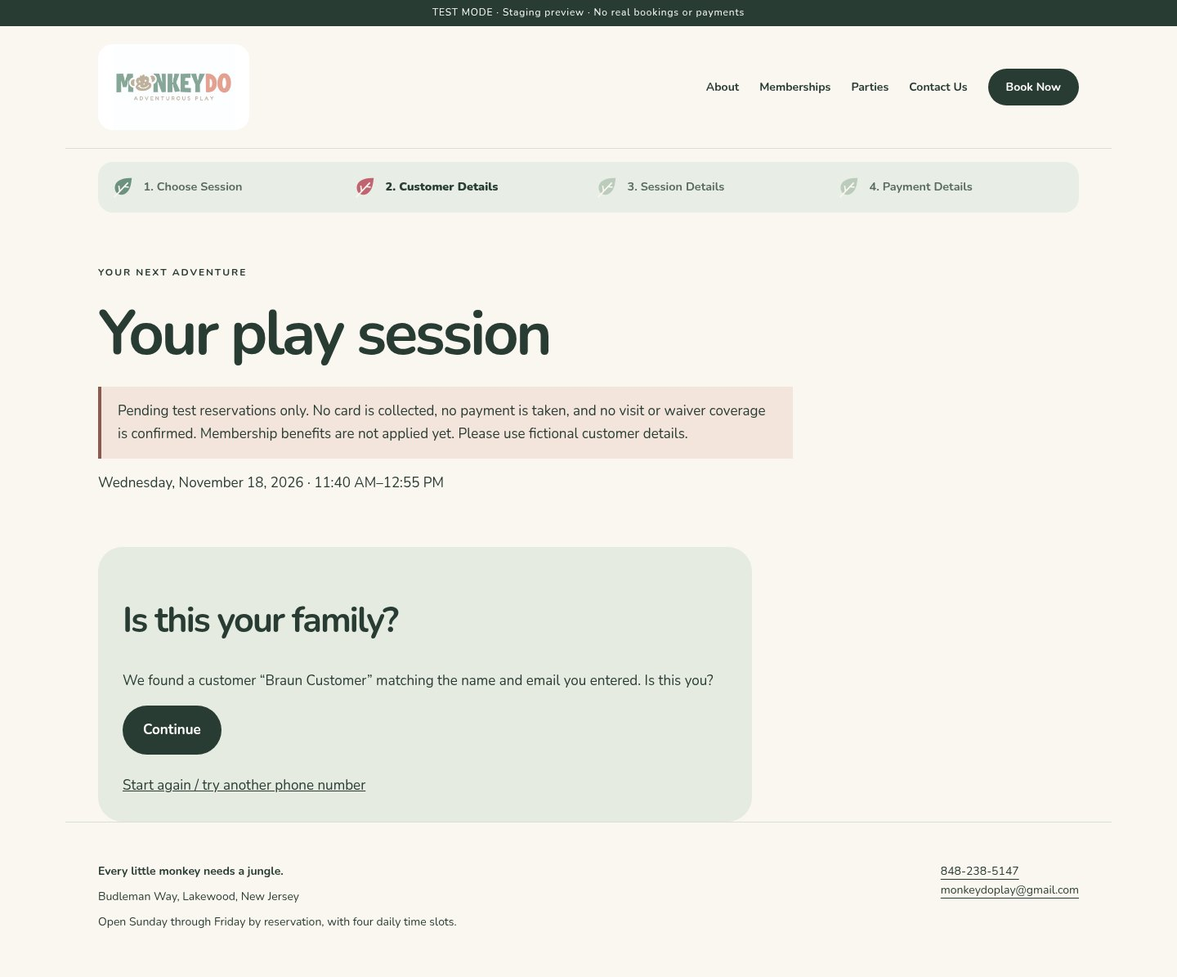
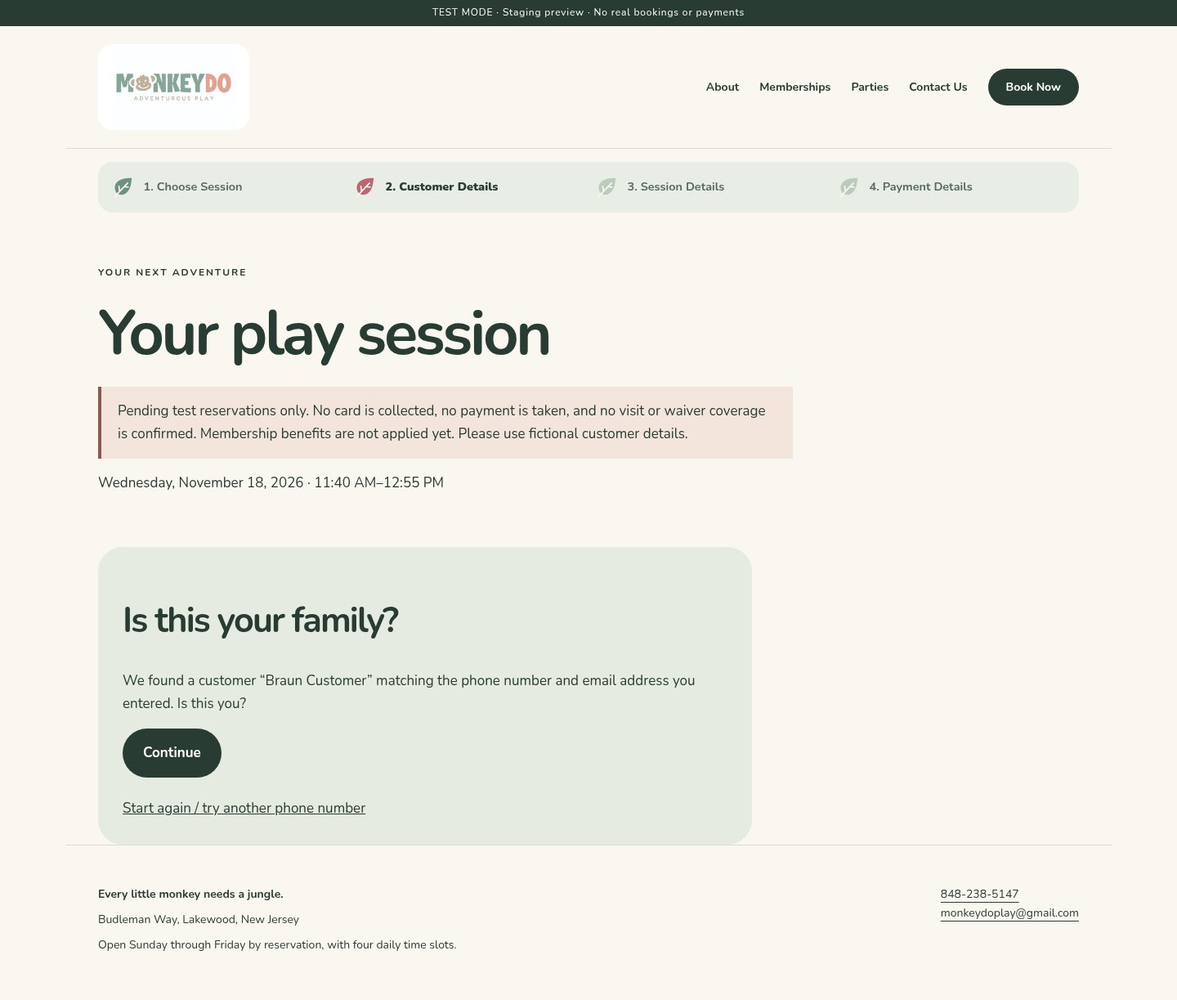
Reuse entered phone for email recovery and lower the booking estimate

diff --git a/templates/core/customer_booking.html b/templates/core/customer_booking.html
@@ -6,13 +6,13 @@
 </section>
 {% if form %}<div class="customer-booking-layout{% if flow.stage == 'details' %} with-play-info{% endif %}"><section class="panel customer-booking-form">
 {% if flow.stage == 'name' %}<p>Looks like you've been to Monkey Do in the past. We found a customer profile with the phone number you entered — {{ flow.phone }}. For verification, please enter your last name.</p>{% endif %}
-{% if flow.stage == 'name_confirm' or flow.stage == 'email_confirm' %}<h2>Is this your family?</h2><p>We found a customer “{{ flow.candidate_name }}” {% if flow.stage == 'email_confirm' %}matching the name and email you entered{% else %}for phone {{ flow.phone }}{% endif %}. Is this you?</p>{% endif %}
+{% if flow.stage == 'name_confirm' or flow.stage == 'email_confirm' %}<h2>Is this your family?</h2><p>We found a customer “{{ flow.candidate_name }}” {% if flow.stage == 'email_confirm' %}{% if flow.recovery_match_kind == 'phone_email' %}matching the phone number and email address you entered{% else %}matching the details you already entered{% endif %}{% else %}for phone {{ flow.phone }}{% endif %}. Is this you?</p>{% endif %}
 {% if flow.stage == 'retry_phone' %}<h2>Let's try another number</h2><p>No customer was found with {{ flow.phone }}. Did you use a different phone number for a previous booking?</p>{% endif %}
 {% if flow.stage == 'contact' or flow.stage == 'retry_phone' %}<p role="status">You can continue below as a new customer, <a href="{% url 'customer_booking' %}?restart=1">go back</a> to try another number, <a href="{% url 'customer_email_recovery' %}">enter an email address</a> to find your customer profile, or call/text us at 848-238-5147 for assistance.</p>{% endif %}
 {% if flow.new_contact_ready and flow.stage == 'details' %}<p role="status">Success! Your details are ready. Please proceed with your booking.</p>{% endif %}
-{% if flow.stage == 'email_lookup' %}{% if flow.recovery_notice %}<p role="status">{{ flow.recovery_notice }}</p>{% endif %}<h2>Find your customer details</h2><p>Enter the email address and last name associated with your customer profile.</p>{% endif %}
+{% if flow.stage == 'email_lookup' %}<p role="status">You can try finding your customer profile by entering your email address.</p><h2>Find your customer details</h2>{% endif %}
 {% if flow.stage == 'previous' %}<p>Looks like you've been to Monkey Do in the past. We found a customer record with your number, along with an updated number of {{ flow.current_phone }}. Please confirm if this is your phone number.</p>{% endif %}
-{% if customer %}{% if flow.stage != 'review' %}{% if flow.verification_mode == 'previous' %}<p>Please go ahead with your booking.</p>{% elif flow.verification_mode == 'name_confirm' %}<p>Your name confirmation was saved. Please go ahead with your booking.</p>{% else %}<p>That name matches our records. Let’s continue with your booking.</p>{% endif %}{% endif %}<p>Family {{ customer.last_name }} · {{ customer.phone }}{% if customer.email %} · {{ customer.email }}{% endif %}</p>{% elif flow.contact %}<p>Family {{ flow.contact.last_name }} · {{ flow.phone }} · {{ flow.contact.email }}</p>{% endif %}
+{% if customer %}{% if flow.stage != 'review' %}{% if flow.verification_mode == 'previous' %}<p>Please go ahead with your booking.</p>{% elif flow.verification_mode == 'name_confirm' %}<p>Your name confirmation was saved. Please go ahead with your booking.</p>{% elif flow.verification_mode == 'email_confirm' %}<p>Your details match our records. Let’s continue with your booking.</p>{% else %}<p>That name matches our records. Let’s continue with your booking.</p>{% endif %}{% endif %}<p>Family {{ customer.last_name }} · {{ customer.phone }}{% if customer.email %} · {{ customer.email }}{% endif %}</p>{% elif flow.contact %}<p>Family {{ flow.contact.last_name }} · {{ flow.phone }} · {{ flow.contact.email }}</p>{% endif %}
 {% if flow.stage == 'email' %}<h2>Add your email address</h2><p>Your customer record doesn’t have an email address yet. Please enter one to continue.</p>{% endif %}
 {% if flow.contact_email %}<p>Email for this booking: {{ flow.contact_email }}</p>{% endif %}
 {% if flow.stage == 'contact' %}<h2>Your details</h2><p>Phone: {{ flow.phone }}</p>{% endif %}

diff --git a/static/core/site.css b/static/core/site.css
@@ -904,7 +904,7 @@ input[type="checkbox"],input[type="radio"] { width:auto; padding:0; margin-right
 .with-play-info .customer-booking-form { max-width:none; min-width:0 }
 .public-details-layout { display:grid; grid-template-columns:minmax(0,1fr) minmax(220px,.85fr); gap:24px; align-items:start }
 .public-details-layout>.button { grid-column:1 / -1; justify-self:start }
-.live-booking-estimate { padding:18px; border-radius:20px; background:#faf7ef; position:sticky; top:20px; min-width:0 }
+.live-booking-estimate { padding:18px; border-radius:20px; background:#faf7ef; align-self:center; position:static; min-width:0 }
 .live-booking-estimate h3 { margin:0 0 14px; font-size:23px }
 .live-booking-estimate .quote-items div { gap:12px }
 .live-booking-estimate dd { white-space:nowrap }

diff --git a/core/public_booking_views.py b/core/public_booking_views.py
@@ -96,7 +96,15 @@ class RetryPhoneForm(forms.Form):
 
 class EmailRecoveryForm(forms.Form):
     email = forms.EmailField(label="Email address")
-    last_name = forms.CharField(max_length=120, label="Last Name")
+
+
+def recovery_match_kind(flow, customer):
+    """Match current email plus earlier inputs; never request a surname twice."""
+    phone_customer = lookup_phone(flow["phone"])
+    if phone_customer is not None:
+        return "phone_email" if phone_customer.pk == customer.pk else None
+    entered_name = flow.get("entered_name", "")
+    return "name_email" if entered_name and similar_name(entered_name, customer.last_name) else None
 
 
 class ContactForm(forms.Form):
@@ -304,6 +312,11 @@ def wizard(request):
         form = form_type(request.POST if request.method == "POST" else None, **args)
         if stage == "review" and request.method == "GET":
             form = ConfirmForm(initial={"flow_key": flow["key"]})
+        if request.method == "POST" and stage == "contact":
+            form.is_valid()
+            if form.cleaned_data.get("last_name"):
+                flow["entered_name"] = form.cleaned_data["last_name"]
+                save(request, flow)
         if request.method == "POST" and form.is_valid():
             limit(request, stage, 60)
             data = form.cleaned_data
@@ -355,7 +368,8 @@ def wizard(request):
                         "Please wait before trying again, or call/text 848-238-5147."
                     )
                 customer = Customer.objects.filter(email__iexact=address).first()
-                if customer is None or not similar_name(data["last_name"], customer.last_name):
+                matched_by = recovery_match_kind(flow, customer) if customer is not None else None
+                if not matched_by:
                     form.add_error(
                         None,
                         "We couldn't match those details. Please try again or call/text 848-238-5147 for help.",
@@ -363,7 +377,7 @@ def wizard(request):
                     return display(request, flow, form=form)
                 flow["candidate"] = {"id": customer.pk, "revision": customer.revision}
                 flow["candidate_name"] = customer.last_name
-                flow["entered_name"] = data["last_name"]
+                flow["recovery_match_kind"] = matched_by
                 flow["recovery_email"] = address
                 flow["stage"] = "email_confirm"
             elif stage in {"name", "name_confirm", "previous", "email_confirm"}:
@@ -372,6 +386,7 @@ def wizard(request):
                 if customer.revision != candidate["revision"]:
                     raise ValidationError("Customer details changed. Please start again.")
                 if stage == "name":
+                    flow["entered_name"] = data["last_name"]
                     exact = canonical_name(data["last_name"]) == canonical_name(customer.last_name)
                     if not exact and similar_name(data["last_name"], customer.last_name):
                         flow["entered_name"] = data["last_name"]
@@ -380,25 +395,21 @@ def wizard(request):
                         save(request, flow)
                         return redirect("customer_booking")
                     matched = exact
-                elif stage in {"name_confirm", "email_confirm"}:
+                elif stage == "email_confirm":
+                    matched = customer.email.casefold() == flow.get(
+                        "recovery_email", ""
+                    ).casefold() and bool(recovery_match_kind(flow, customer))
+                elif stage == "name_confirm":
                     matched = similar_name(flow.get("entered_name", ""), customer.last_name)
-                    if stage == "email_confirm":
-                        matched = (
-                            matched
-                            and customer.email.casefold()
-                            == flow.get("recovery_email", "").casefold()
-                        )
                 else:
                     matched = data["confirm_phone"] == "yes"
                 if not matched and stage in {"name", "name_confirm"}:
                     flow["stage"] = "email_lookup"
                     flow.pop("candidate_name", None)
                     save(request, flow)
-                    recovery = EmailRecoveryForm(
-                        initial={"last_name": data.get("last_name", flow.get("entered_name", ""))}
-                    )
+                    recovery = EmailRecoveryForm()
                     flow["recovery_notice"] = (
-                        "We couldn't match that name to the entered phone number. You can try your email address and last name below."
+                        "You can try finding your customer profile by entering your email address."
                     )
                     save(request, flow)
                     return display(request, flow, form=recovery)

diff --git a/tests/test_owner_feedback_batch_three.py b/tests/test_owner_feedback_batch_three.py
@@ -253,15 +253,14 @@ class PublicThirdBatchTests(TestCase):
         self.begin(c.phone, "yes")
         self.client.post("/book/details/", {"last_name": "Unrelated"})
         self.assertEqual(self.client.session["customer_test_booking"]["stage"], "email_lookup")
-        response = self.client.post("/book/details/", {"last_name": "Wrong", "email": c.email})
+        response = self.client.post("/book/details/", {"email": "wrong@example.invalid"})
         self.assertNotContains(response, c.last_name)
-        response = self.client.post(
-            "/book/details/", {"last_name": "Brawn", "email": c.email.upper()}
-        )
+        response = self.client.post("/book/details/", {"email": c.email.upper()})
         self.assertEqual(response.status_code, 302)
         self.assertContains(self.client.get("/book/details/"), c.last_name)
         self.client.post("/book/details/", {})
         self.assertEqual(self.client.session["customer_test_booking"]["stage"], "details")
+        self.assertContains(self.client.get("/book/details/"), "Your details match our records")
         c.refresh_from_db()
         self.assertEqual(c.phone, "2025550100")
         self.assertFalse(Booking.objects.exists())
@@ -270,13 +269,54 @@ class PublicThirdBatchTests(TestCase):
         c = Customer.objects.create(
             last_name="Known", phone="2025550100", email="known@example.invalid"
         )
-        self.begin("5145550199", "yes")
-        self.client.post("/book/recover/")
+        self.begin("5145550199", "no")
+        # A name already entered on the contact form can be reused; it is never asked again.
         self.client.post("/book/details/", {"last_name": "Kno", "email": c.email})
+        self.client.post("/book/recover/")
+        self.client.post("/book/details/", {"email": c.email})
         self.client.post("/book/details/", {})
         self.assertEqual(self.client.session["customer_test_booking"]["stage"], "details")
         c.refresh_from_db()
         self.assertEqual(c.phone, "2025550100")
+
+    def test_email_recovery_uses_phone_without_repeating_name(self):
+        c = Customer.objects.create(
+            last_name="Known", phone="2025550100", email="known@example.invalid"
+        )
+        self.begin(c.phone, "yes")
+        response = self.client.post("/book/details/", {"last_name": "Different"})
+        self.assertNotContains(response, 'name="last_name"')
+        self.assertContains(
+            response, "You can try finding your customer profile by entering your email address."
+        )
+        self.client.post("/book/details/", {"email": c.email})
+        self.assertContains(self.client.get("/book/details/"), c.last_name)
+        self.assertNotIn("proof", self.client.session["customer_test_booking"])
+
+    def test_email_for_another_profile_cannot_override_a_matched_phone(self):
+        current = Customer.objects.create(
+            last_name="Current", phone="2025550100", email="current@example.invalid"
+        )
+        other = Customer.objects.create(
+            last_name="Other", phone="2025550101", email="other@example.invalid"
+        )
+        self.begin(current.phone, "yes")
+        self.client.post("/book/details/", {"last_name": other.last_name})
+        response = self.client.post("/book/details/", {"email": other.email})
+        self.assertNotContains(response, "Is this your family?")
+        self.assertNotIn("candidate_name", self.client.session["customer_test_booking"])
+        self.assertEqual(self.client.session["customer_test_booking"]["stage"], "email_lookup")
+
+    def test_email_alone_with_unknown_phone_does_not_reveal_profile(self):
+        c = Customer.objects.create(
+            last_name="Known", phone="2025550100", email="known@example.invalid"
+        )
+        self.begin("5145550199", "yes")
+        self.client.get("/book/recover/")
+        response = self.client.post("/book/details/", {"email": c.email, "last_name": c.last_name})
+        self.assertNotContains(response, "Is this your family?")
+        self.assertNotIn("candidate_name", self.client.session["customer_test_booking"])
+        self.assertEqual(self.client.session["customer_test_booking"]["stage"], "email_lookup")
 
     def test_email_from_history_cannot_identify_customer(self):
         c = Customer.objects.create(

diff --git a/tests/test_public_booking.py b/tests/test_public_booking.py
@@ -94,7 +94,9 @@ class PublicBookingTests(TestCase):
         self.assertNotContains(response, customer.email)
         self.assertNotContains(response, customer.last_name)
         response = self.client.post("/book/details/", {"last_name": "Wrong"})
-        self.assertContains(response, "try your email address and last name")
+        self.assertContains(
+            response, "You can try finding your customer profile by entering your email address."
+        )
         self.assertEqual(Booking.objects.count(), 0)
         self.assertEqual(self.client.session["customer_test_booking"]["stage"], "email_lookup")
 

diff --git a/docs/MONKEYDO_REQUIREMENTS.md b/docs/MONKEYDO_REQUIREMENTS.md
@@ -106,7 +106,7 @@ Collect Last Name, phone, email, date/session, baby/child/adult quantities, calc
 
 Validate in browser and server: required fields/consent, nonnegative integer counts, nonzero attendance, adult rule where applicable, card setup unless owner-comped, availability/end time, capacity and permissions. Online waiver must be covered before booking completes; admin/phone bookings may confirm pending.
 
-The visible public progress indicator has four steps: Choose Session, Customer Details, Session Details, Payment Details. Expected payment-method selection stays in Session Details; the breakdown and final reviewed save action live in Payment Details, without a separate visible Review step. Show completion afterward. Add a waiver step only when the approved waiver workflow is implemented. Show an itemized calculation before confirmation. Public Session Details has a read-only live estimate labelled Total before applicable taxes, including any applicable card fee but omitting tax; final Payment Details shows the complete tax-inclusive breakdown. Stack compact Open/Supervised information cards without booking buttons outside the form on desktop and below it on phones. Save immutable price/tax/fee/policy snapshots; an authorized edit creates a new revision with before/after audit, not silent rewriting of the original. Future owner pricing/settings do not alter accepted existing bookings or cohort prices.
+The visible public progress indicator has four steps: Choose Session, Customer Details, Session Details, Payment Details. Expected payment-method selection stays in Session Details; the breakdown and final reviewed save action live in Payment Details, without a separate visible Review step. Show completion afterward. Add a waiver step only when the approved waiver workflow is implemented. Show an itemized calculation before confirmation. Public Session Details has a read-only live estimate labelled Total before applicable taxes, placed lower beside the attendee fields rather than alongside the initial play-type instructions, including any applicable card fee but omitting tax; final Payment Details shows the complete tax-inclusive breakdown. Stack compact Open/Supervised information cards without booking buttons outside the form on desktop and below it on phones. Save immutable price/tax/fee/policy snapshots; an authorized edit creates a new revision with before/after audit, not silent rewriting of the original. Future owner pricing/settings do not alter accepted existing bookings or cohort prices.
 
 ## 7. Customers and public identification
 
@@ -120,7 +120,7 @@ The visible public progress indicator has four steps: Choose Session, Customer D
 
 1. Ask whether the customer has visited before. Search current and previous phone fields. New-customer entry also silently searches after phone entry.
 2. For a new customer, silently search the supplied phone and continue new booking if unmatched. For a returning customer whose phone is unmatched, show the entered number and offer another/prior-number attempt or Continue as a new customer. If the alternative number is unmatched, continue the new-customer flow with a clear explanation and a way to start again.
-3. Permit the approved spelling differences and meaningful partial/individual-word names only against the phone-selected customer, or the exact current-email-selected customer during recovery. Show **We found a customer “[LastName]” for phone [entered number]. Is this you?** with Continue as the confirmation action; no additional checkbox. Preserve the stored spelling. Backend suggestions across Customers, Today/Bookings and booking/membership pickers rank exact/direct matches before clearly marked possible word/spelling matches, including Brawn versus Braun Customer and bnot versus bnos miriam. Test customer/customir and Zorger/Zarger/Zharger/Zorge. On a current-number match, including a supposedly new customer, say: **Looks like you've been to Monkey Do in the past. We found a customer profile with the phone number you entered — [entered number]. For verification, please enter your last name.** On success: **That name matches our records. Let’s continue with your booking.** Show this at verification/session details, without repeating it on Payment Details. Associate only after verification. On failure: **The last name you entered doesn't match the name on record for this number. We would love to get your booking done for you as soon as possible. Please call or text 848-238-5147 and we'll help you with it.** If phone/name matching fails, offer exact current-email plus tolerant surname recovery instead of associating an unverified match. Offer the same recovery when no phone matches. Reveal the family name only after the two supplied pieces match, then require confirmation. Historical-only addresses do not identify a customer; keep the saved phone unchanged. Retain call/text assistance and request throttling. This supersedes the earlier phone-only stop rule.
+3. Permit the approved spelling differences and meaningful partial/individual-word names only against the phone-selected customer, or the exact current-email-selected customer during recovery. Show **We found a customer “[LastName]” for phone [entered number]. Is this you?** with Continue as the confirmation action; no additional checkbox. Preserve the stored spelling. Backend suggestions across Customers, Today/Bookings and booking/membership pickers rank exact/direct matches before clearly marked possible word/spelling matches, including Brawn versus Braun Customer and bnot versus bnos miriam. Test customer/customir and Zorger/Zarger/Zharger/Zorge. On a current-number match, including a supposedly new customer, say: **Looks like you've been to Monkey Do in the past. We found a customer profile with the phone number you entered — [entered number]. For verification, please enter your last name.** On success: **That name matches our records. Let’s continue with your booking.** Show this at verification/session details, without repeating it on Payment Details. Associate only after verification. On failure: **The last name you entered doesn't match the name on record for this number. We would love to get your booking done for you as soon as possible. Please call or text 848-238-5147 and we'll help you with it.** If phone/name matching fails, offer an email-only entry screen and reuse the phone already supplied: the current email and phone must identify the same customer before revealing their family name and requesting confirmation. Do not ask for the surname again. If no phone record was found, an already-entered surname may instead supply the second matching detail; do not disclose a profile from email alone or accept a forged new surname on the recovery submission. Historical-only addresses do not identify a customer; keep the saved phone unchanged. Retain call/text assistance and request throttling. This supersedes the earlier phone-only stop rule.
 4. On a previous-number match, show full current phone: **Looks like you've been to Monkey Do in the past. We found a customer record with your number, along with an updated number of [current phone]. Please confirm if this is your phone number.** Yes is sufficient for this branch; do not add an unapproved second last-name check. No: **We would love to get your booking finalized as soon as possible. Please call/text 848-238-5147 for assistance with this booking.** Owner explicitly chose this full-number disclosure.
 5. Link internally to the same account and use current contact information without unnecessary repeated entry. Do not expose prior booking history, minor names or other private history in the lookup.
 6. All customers see booking success and the destination email with an Update email address option. No emailed verification code was requested for that change.

diff --git a/docs/design-review/owner-edits-batch-3/README.md b/docs/design-review/owner-edits-batch-3/README.md
@@ -39,9 +39,9 @@ remain welcome.
 | 22 | Public booking — Canadian/ten-digit phone wording | [Desktop JPG](22-phone-validation-wording-desktop.jpg) | [Phone JPG](22-phone-validation-wording-phone.jpg) |
 | 23 | Public booking — inline phone/email continuation choices | [Desktop JPG](23-new-customer-continuation-desktop.jpg) | [Phone JPG](23-new-customer-continuation-phone.jpg) |
 | 24 | Public booking — details ready, not saved early | [Desktop JPG](24-new-customer-details-ready-desktop.jpg) | [Phone JPG](24-new-customer-details-ready-phone.jpg) |
-| 25 | Public booking — email recovery | [Desktop JPG](25-email-recovery-desktop.jpg) | [Phone JPG](25-email-recovery-phone.jpg) |
+| 25 | Public booking — email entry using the earlier phone | [Desktop JPG](25-email-recovery-desktop.jpg) | [Phone JPG](25-email-recovery-phone.jpg) |
 | 26 | Public booking — matching family confirmation | [Desktop JPG](26-email-family-confirmation-desktop.jpg) | [Phone JPG](26-email-family-confirmation-phone.jpg) |
-| 27 | Public booking — live pretax estimate and play information | [Desktop JPG](27-live-estimate-and-play-info-desktop.jpg) | [Phone JPG](27-live-estimate-and-play-info-phone.jpg) |
+| 27 | Public booking — lower pretax estimate and play information | [Desktop JPG](27-live-estimate-and-play-info-desktop.jpg) | [Phone JPG](27-live-estimate-and-play-info-phone.jpg) |
 | 28 | Public booking — final tax-inclusive details | [Desktop JPG](28-final-payment-details-tax-desktop.jpg) | [Phone JPG](28-final-payment-details-tax-phone.jpg) |
 | 29 | Public booking — rose completion sentence | [Desktop JPG](29-completion-rose-message-desktop.jpg) | [Phone JPG](29-completion-rose-message-phone.jpg) |
 
@@ -68,3 +68,5 @@ customer visits remain unfinished. [Implementation and migration notes](../../OW
 Screen 16 now shows the actual new-session default: **Closed for reservation is unchecked**. Existing saved defaults retain their own open/closed setting.
 
 Screen 23 now consolidates phone retry and email recovery into the introductory paragraph, with both actions as inline links. Duplicate actions below the form were removed.
+
+Screens 24–27 were refreshed after review: the estimate sits lower beside attendee inputs, and email recovery asks only for email, reusing the phone already entered. It reveals the family after both match, without asking for the name again.

diff --git a/docs/OWNER_EDITS_BATCH_3.md b/docs/OWNER_EDITS_BATCH_3.md
@@ -36,7 +36,7 @@ previous approved release. [Desktop and phone JPG gallery](design-review/owner-e
 
 ## Verification
 
-- **397 tests passed on local PostgreSQL 16.2.** GitHub CI runs PostgreSQL 17;
+- **400 tests passed on local PostgreSQL 16.2.** GitHub CI runs PostgreSQL 17;
   record its separate results before PR readiness. This is not production or
   hosted owner acceptance.
 - New coverage includes concurrent custom-session creation versus booking,
@@ -122,3 +122,22 @@ session. Email lookup still requires email and surname, with no early customer
 creation or saved-phone change. The 27 affected PostgreSQL public-flow tests
 passed and Chromium checked both links at desktop/phone widths. Screen 23 and
 its image checksums were refreshed. Staging and PR/deployment remain unchanged.
+
+
+## Image-review follow-up — lower estimate and reuse the entered phone
+
+The owner requested moving the estimate lower and removing the repeated surname
+field from recovery. Clarification: after a phone matches but the surname fails,
+the already-entered phone plus current email are the two matching details. The
+recovery form now has just Email address, with You can try finding your customer
+profile by entering your email address. It cannot reveal a different profile
+whose email does not match the phone. Prior unmatched-phone recovery can reuse a
+surname already entered earlier; email alone and extra forged recovery-name
+fields cannot disclose a profile. Saved phone and customer creation timing remain
+unchanged. Recovery completion says Your details match our records.
+
+The estimate now starts lower beside attendee inputs through vertical alignment,
+with the mobile order unchanged. Chromium verifies its lower position and the
+one-field recovery/phone-email confirmation at 1440px and 390px; screens 24–27
+were refreshed. The affected 30 public-booking/recovery tests passed, including
+new disclosure/refusal cases. The full PostgreSQL regression suite passed: 400 tests. Staging remains unchanged and image approval still precedes PR/deploy.

diff --git a/docs/CUSTOMER_BOOKING_DEVELOPMENT.md b/docs/CUSTOMER_BOOKING_DEVELOPMENT.md
@@ -92,3 +92,23 @@ the in-progress browser flow and still requires matching email and surname befor
 family disclosure. Final customer/booking persistence, saved phone and selected
 session are unchanged. Remove the obsolete duplicate-email hint that referred to
 the removed standalone button; the approved full error wording remains.
+
+
+## Image-review clarification — lower estimate and no repeated name entry
+
+The owner clarified the failed-name case: the phone number was already found,
+so that phone plus matching current email are sufficient. Recovery now asks for
+email only, reuses the earlier phone and reveals the family only after both
+identify the same profile. A mismatching email cannot switch a phone-selected
+customer to a different record. The wording is You can try finding your customer
+profile by entering your email address. The surname is never requested again.
+For the earlier unmatched-phone branch, only a surname already supplied in the
+contact step can serve as the second detail; otherwise email alone cannot reveal
+the record. Historical-only email remains excluded, and saved phones are unchanged.
+Confirmation rechecks the same details and profile revision. After recovery the
+success message says Your details match our records, avoiding a false claim that
+the originally mismatched surname was accepted.
+
+The desktop live estimate is vertically centered lower beside the attendee
+fields instead of starting next to Play type. Its narrow-screen placement after
+the fields is unchanged. Screens 24–27 were refreshed where affected.

diff --git a/docs/DECISION_LOG.md b/docs/DECISION_LOG.md
@@ -435,3 +435,14 @@ tax only from the live estimate while preserving final tax-inclusive details.
 Generate desktop/phone screenshots in GitHub for owner review, then corrections,
 PR and one-command deployment preparation. This does not authorize deploying
 before image review or implementing the separate next-phase proposal.
+
+
+## 2026-11-17 — Email recovery reuses the matched phone; estimate lower
+
+Owner clarified that when phone lookup finds a record but the entered surname
+fails, the previously entered phone plus matching current email are sufficient.
+Do not ask for the name again. Use You can try finding your customer profile by
+entering your email address. Keep two matching details before family disclosure,
+with current email/phone identifying the same record and saved phone unchanged.
+Move the live estimate down beside the attendee inputs to reduce crowding near
+Play type. Updated review screenshots precede PR/deployment as before.

diff --git a/docs/BUILD_STATUS.md b/docs/BUILD_STATUS.md
@@ -8,7 +8,7 @@ locally on `feat/owner-feedback-batch-three` and awaits owner screenshot review;
 it is not deployed. See [third-batch record](OWNER_EDITS_BATCH_3.md) and
 [desktop/phone gallery](design-review/owner-edits-batch-3/README.md).
 
-Local verification: 397 PostgreSQL tests passed, including a concurrent booking
+Local verification: 400 PostgreSQL tests passed, including a concurrent booking
 versus custom-session race, preserved closures/history, optional date searches,
 public email/name recovery and read-only pretax estimates. The local PostgreSQL
 server is 16.2; GitHub CI uses PostgreSQL 17. Browser gallery: 58 JPGs at 1440px
